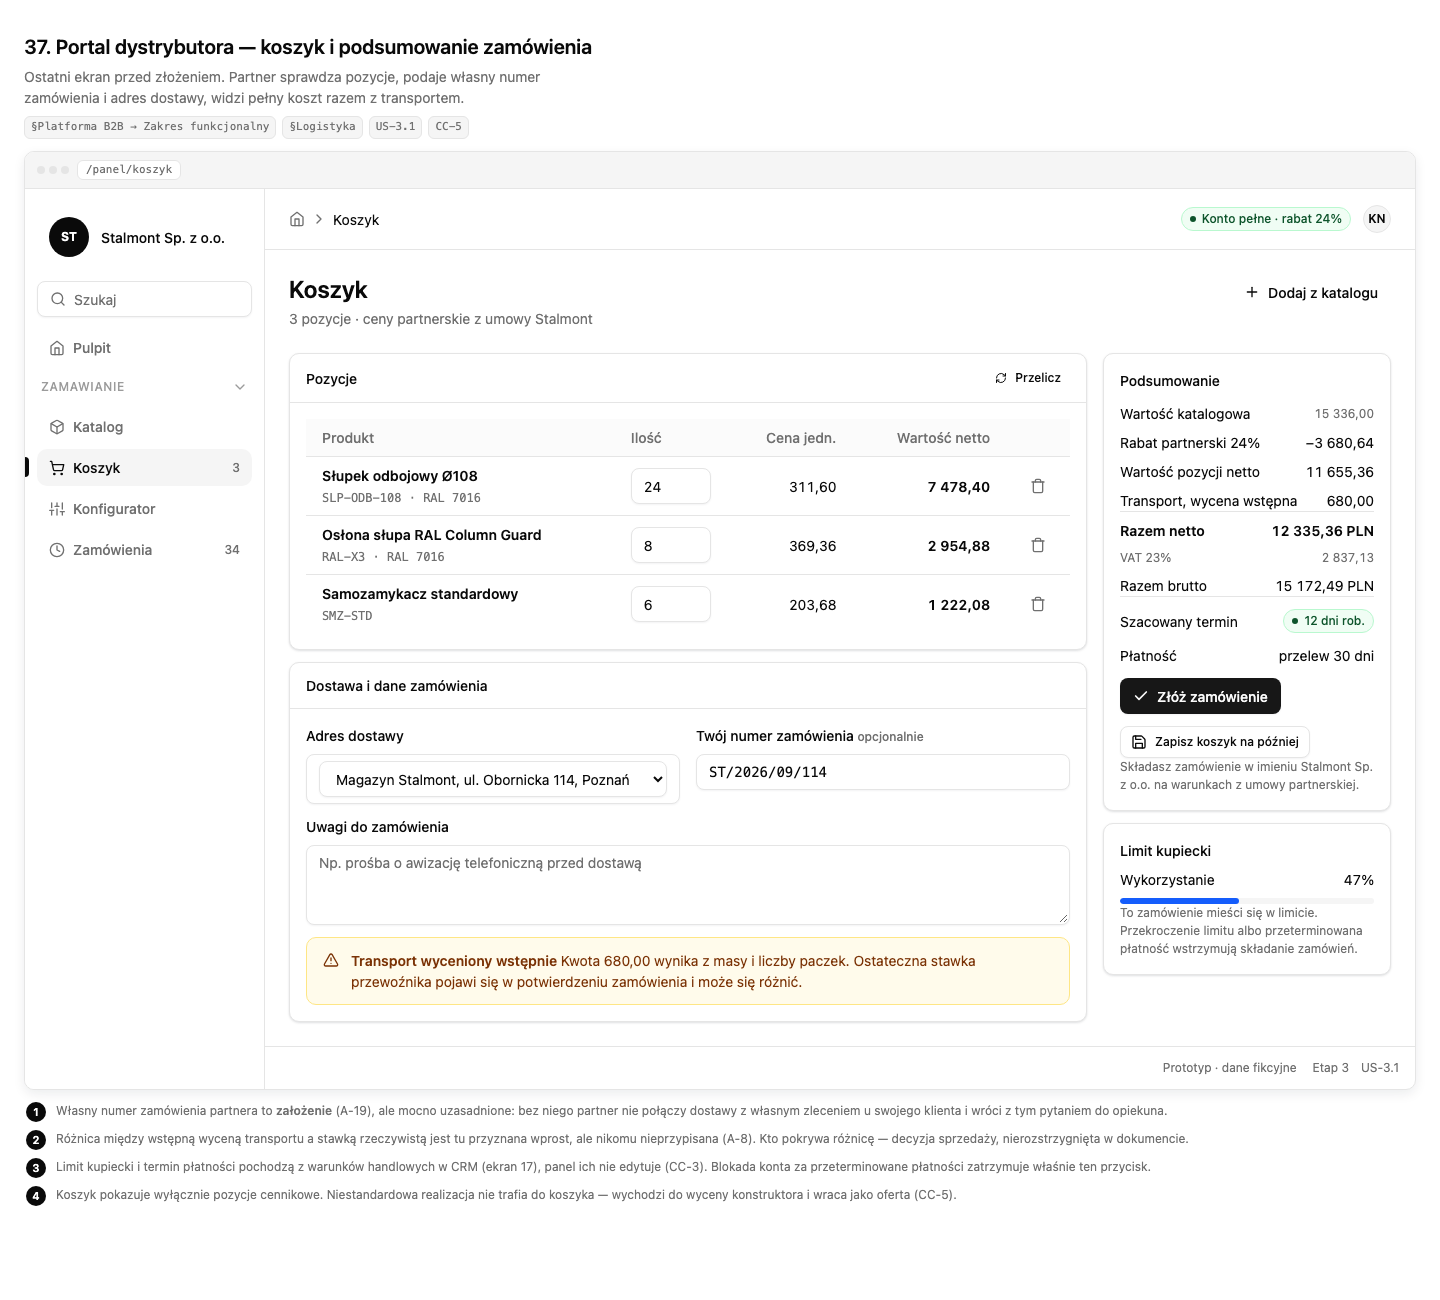
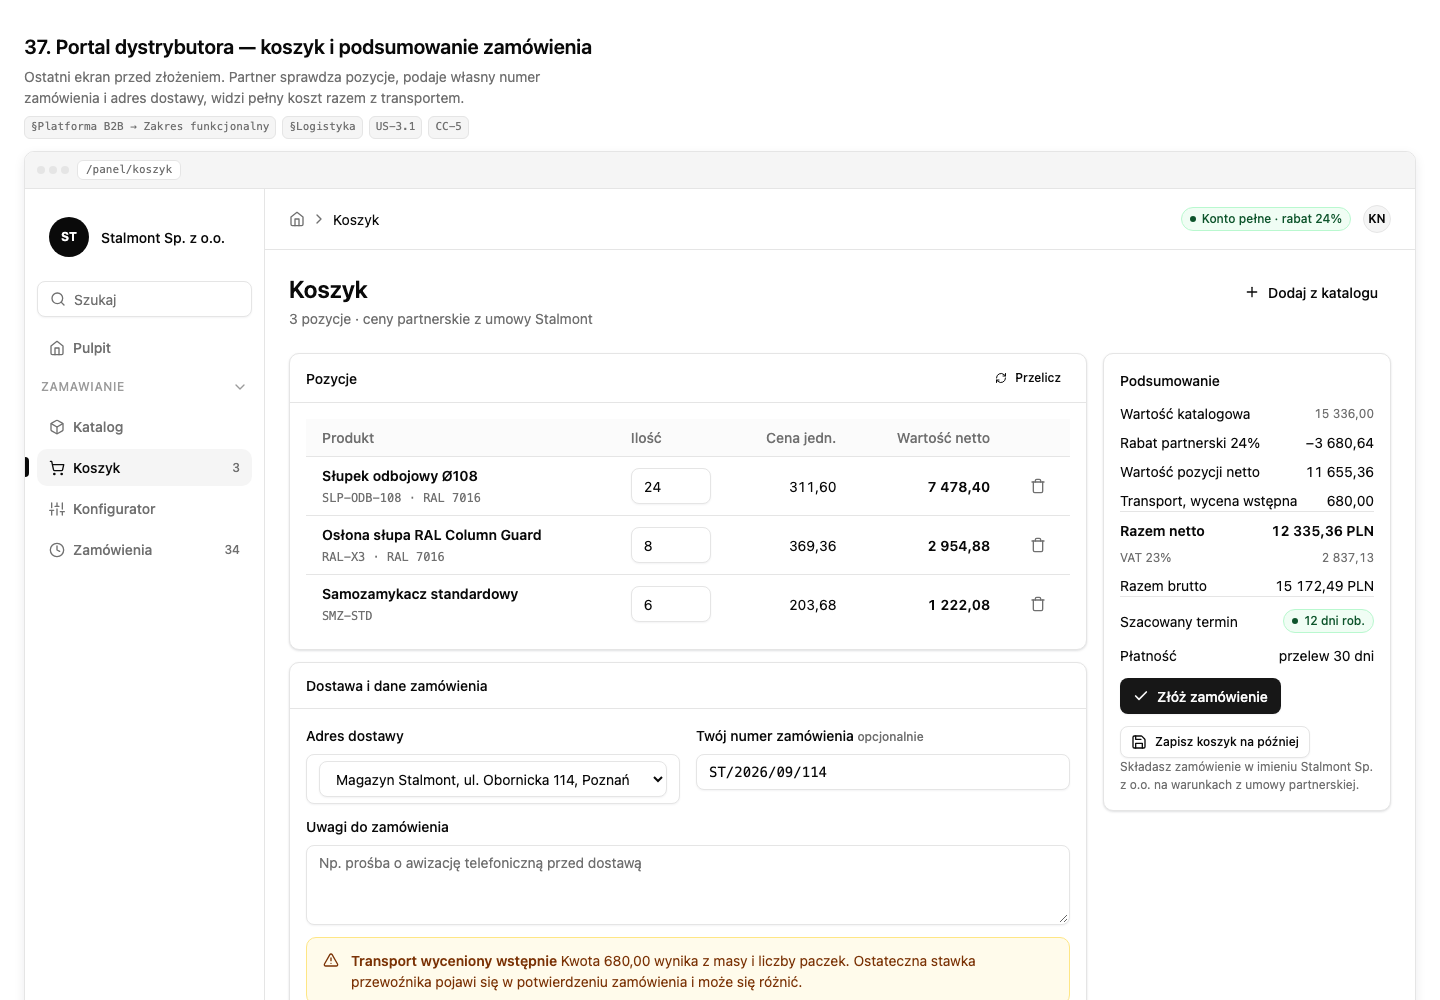
docs: prototyp Anter - filtr po kategorii produktu, usuniety limit kupiecki
Filtrowanie w katalogu jest teraz jawnie po kategorii produktu. Wczesniejszy
przycisk "Filtry" z licznikiem nie mowil, po czym filtruje, a aktywny chip
deklarowal kategorie "zabezpieczenia wewnetrzne", ktorej nie bylo wsrod
kategorii w tabeli - te brzmia Bramki, Bramy, Bariery, Slupki, Oslony,
Akcesoria. Filtr i dane sie rozjezdzaly.

Zastapil je wybor kategorii z listy pokrywajacej dokladnie te szesc
wartosci, w obu widokach katalogu (ekran 35 i 42), domyslnie "Wszystkie
kategorie".

Limit kupiecki usuniety w calosci: z koszyka (ekran 37) i z warunkow
handlowych w CRM (ekran 17). Zostawienie go po jednej stronie, gdy druga
go nie pokazuje, byloby niespojne. Blokada konta za przeterminowane
platnosci zostaje - wynika wprost z dokumentu zrodlowego. Zalozenie A-22
wycofane.

diff --git a/.ai/prototypes/anter-system-etapy/index.html b/.ai/prototypes/anter-system-etapy/index.html
@@ -2217,7 +2217,6 @@
                   <p class="t-hint" style="margin:0">Blokada zatrzymuje składanie zamówień. Dostęp do dokumentów i statusów już złożonych zamówień pozostaje, żeby partner mógł domknąć bieżące sprawy.</p>
                   <div class="separator"></div>
                   <div class="row between"><span class="t-body">Przeterminowane należności</span><span class="num">0,00 PLN</span></div>
-                  <div class="row between"><span class="t-body">Limit kupiecki</span><span class="num">150 000,00 PLN</span></div>
                 </div>
 
                 <div class="form-group">
@@ -4248,7 +4247,7 @@ ul. Przemysłowa 44
                 <div class="dt-toolbar-row">
                   <div class="dt-search"><span class="input-group"><span class="addon"><svg><use href="#ic-search"/></svg></span><input class="input" type="search" aria-label="Szukaj w katalogu" placeholder="Nazwa lub indeks produktu" /></span></div>
                   <div class="dt-toolbar-right">
-                    <button class="btn btn-outline btn-sm"><svg><use href="#ic-filter"/></svg> Filtry <span class="filter-count">1</span></button>
+                    <select class="input" aria-label="Kategoria produktu" id="kat-lista" style="width:13rem;flex:none"><option selected>Wszystkie kategorie</option><option>Bramki</option><option>Bramy</option><option>Bariery</option><option>Słupki</option><option>Osłony</option><option>Akcesoria</option></select>
                     <div class="segmented" role="group" aria-label="Widok">
                       <button type="button" aria-selected="true">Lista</button>
                       <button type="button" aria-selected="false" data-goto="s42">Kafle</button>
@@ -4256,10 +4255,6 @@ ul. Przemysłowa 44
                   </div>
                 </div>
               </div>
-            </div>
-            <div class="dt-chips">
-              <span class="chip chip-active">Kategoria: zabezpieczenia wewnętrzne <svg><use href="#ic-x"/></svg></span>
-              <button class="chip chip-dashed" type="button"><svg><use href="#ic-plus"/></svg> Filtr</button>
             </div>
             <div class="scroll-x">
               <table class="table">
@@ -4626,13 +4621,6 @@ ul. Przemysłowa 44
                 <button class="btn btn-outline btn-sm"><svg><use href="#ic-save"/></svg> Zapisz koszyk na później</button>
                 <p class="t-hint" style="margin:0">Składasz zamówienie w imieniu Stalmont Sp. z o.o. na warunkach z umowy partnerskiej.</p>
               </div>
-
-              <div class="card card-pad stack-2">
-                <span class="t-card-title">Limit kupiecki</span>
-                <div class="row between"><span class="t-body">Wykorzystanie</span><span class="num">47%</span></div>
-                <div class="progress"><span style="width:47%"></span></div>
-                <p class="t-hint" style="margin:0">To zamówienie mieści się w limicie. Przekroczenie limitu albo przeterminowana płatność wstrzymują składanie zamówień.</p>
-              </div>
             </div>
           </div>
         </main>
@@ -4644,7 +4632,7 @@ ul. Przemysłowa 44
   <div class="notes">
     <div class="note"><b>1</b><span>Własny numer zamówienia partnera to <span class="strong">założenie</span> (A-19), ale mocno uzasadnione: bez niego partner nie połączy dostawy z własnym zleceniem u swojego klienta i wróci z tym pytaniem do opiekuna.</span></div>
     <div class="note"><b>2</b><span>Różnica między wstępną wyceną transportu a stawką rzeczywistą jest tu przyznana wprost, ale nikomu nieprzypisana (A-8). Kto pokrywa różnicę — decyzja sprzedaży, nierozstrzygnięta w dokumencie.</span></div>
-    <div class="note"><b>3</b><span>Limit kupiecki i termin płatności pochodzą z warunków handlowych w CRM (ekran 17), panel ich nie edytuje (CC-3). Blokada konta za przeterminowane płatności zatrzymuje właśnie ten przycisk.</span></div>
+    <div class="note"><b>3</b><span>Termin płatności pochodzi z warunków handlowych w CRM (ekran 17), panel ich nie edytuje (CC-3). Blokada konta za przeterminowane płatności zatrzymuje właśnie ten przycisk.</span></div>
     <div class="note"><b>4</b><span>Koszyk pokazuje wyłącznie pozycje cennikowe. Niestandardowa realizacja nie trafia do koszyka — wychodzi do wyceny konstruktora i wraca jako oferta (CC-5).</span></div>
   </div>
 </section>
@@ -5263,7 +5251,7 @@ ul. Przemysłowa 44
                 <div class="dt-toolbar-row">
                   <div class="dt-search"><span class="input-group"><span class="addon"><svg><use href="#ic-search"/></svg></span><input class="input" type="search" aria-label="Szukaj w katalogu" placeholder="Nazwa lub indeks produktu" /></span></div>
                   <div class="dt-toolbar-right">
-                    <button class="btn btn-outline btn-sm"><svg><use href="#ic-filter"/></svg> Filtry <span class="filter-count">1</span></button>
+                    <select class="input" aria-label="Kategoria produktu" id="kat-kafle" style="width:13rem;flex:none"><option selected>Wszystkie kategorie</option><option>Bramki</option><option>Bramy</option><option>Bariery</option><option>Słupki</option><option>Osłony</option><option>Akcesoria</option></select>
                     <div class="segmented" role="group" aria-label="Widok">
                       <button type="button" aria-selected="false" data-goto="s35">Lista</button>
                       <button type="button" aria-selected="true">Kafle</button>
@@ -5271,10 +5259,6 @@ ul. Przemysłowa 44
                   </div>
                 </div>
               </div>
-            </div>
-            <div class="dt-chips">
-              <span class="chip chip-active">Kategoria: zabezpieczenia wewnętrzne <svg><use href="#ic-x"/></svg></span>
-              <button class="chip chip-dashed" type="button"><svg><use href="#ic-plus"/></svg> Filtr</button>
             </div>
 
             <div class="card-body">
